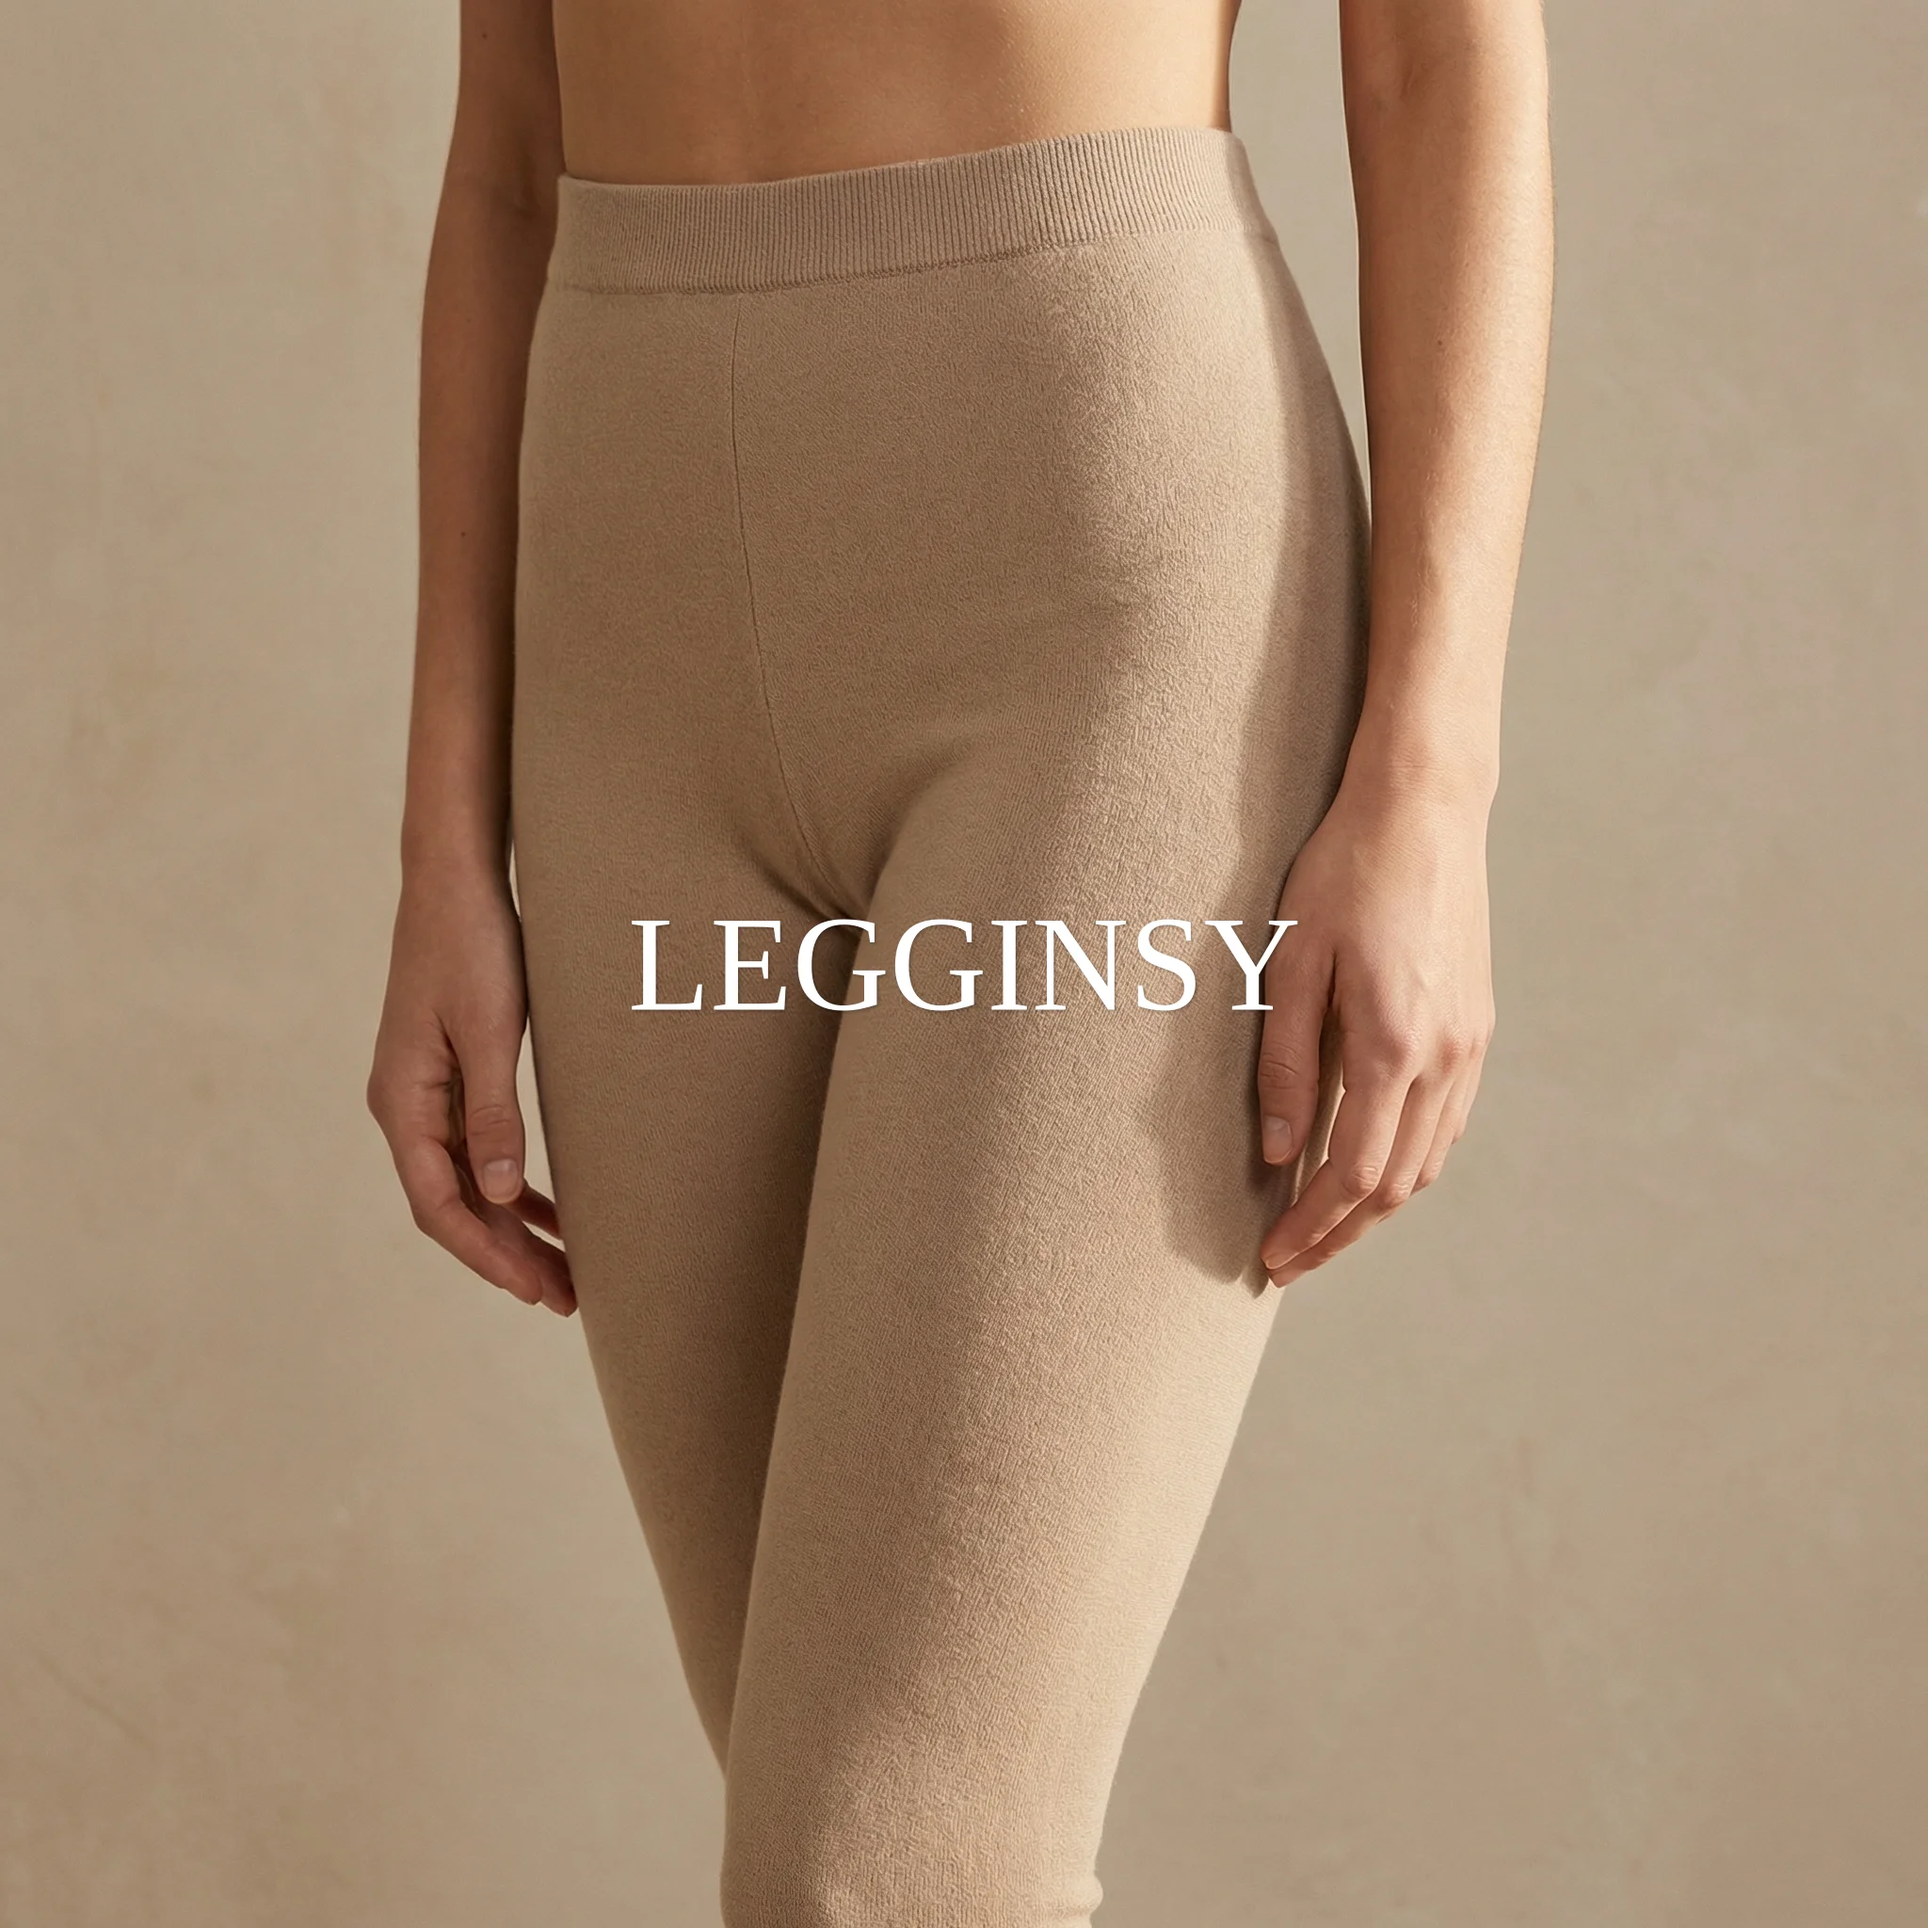
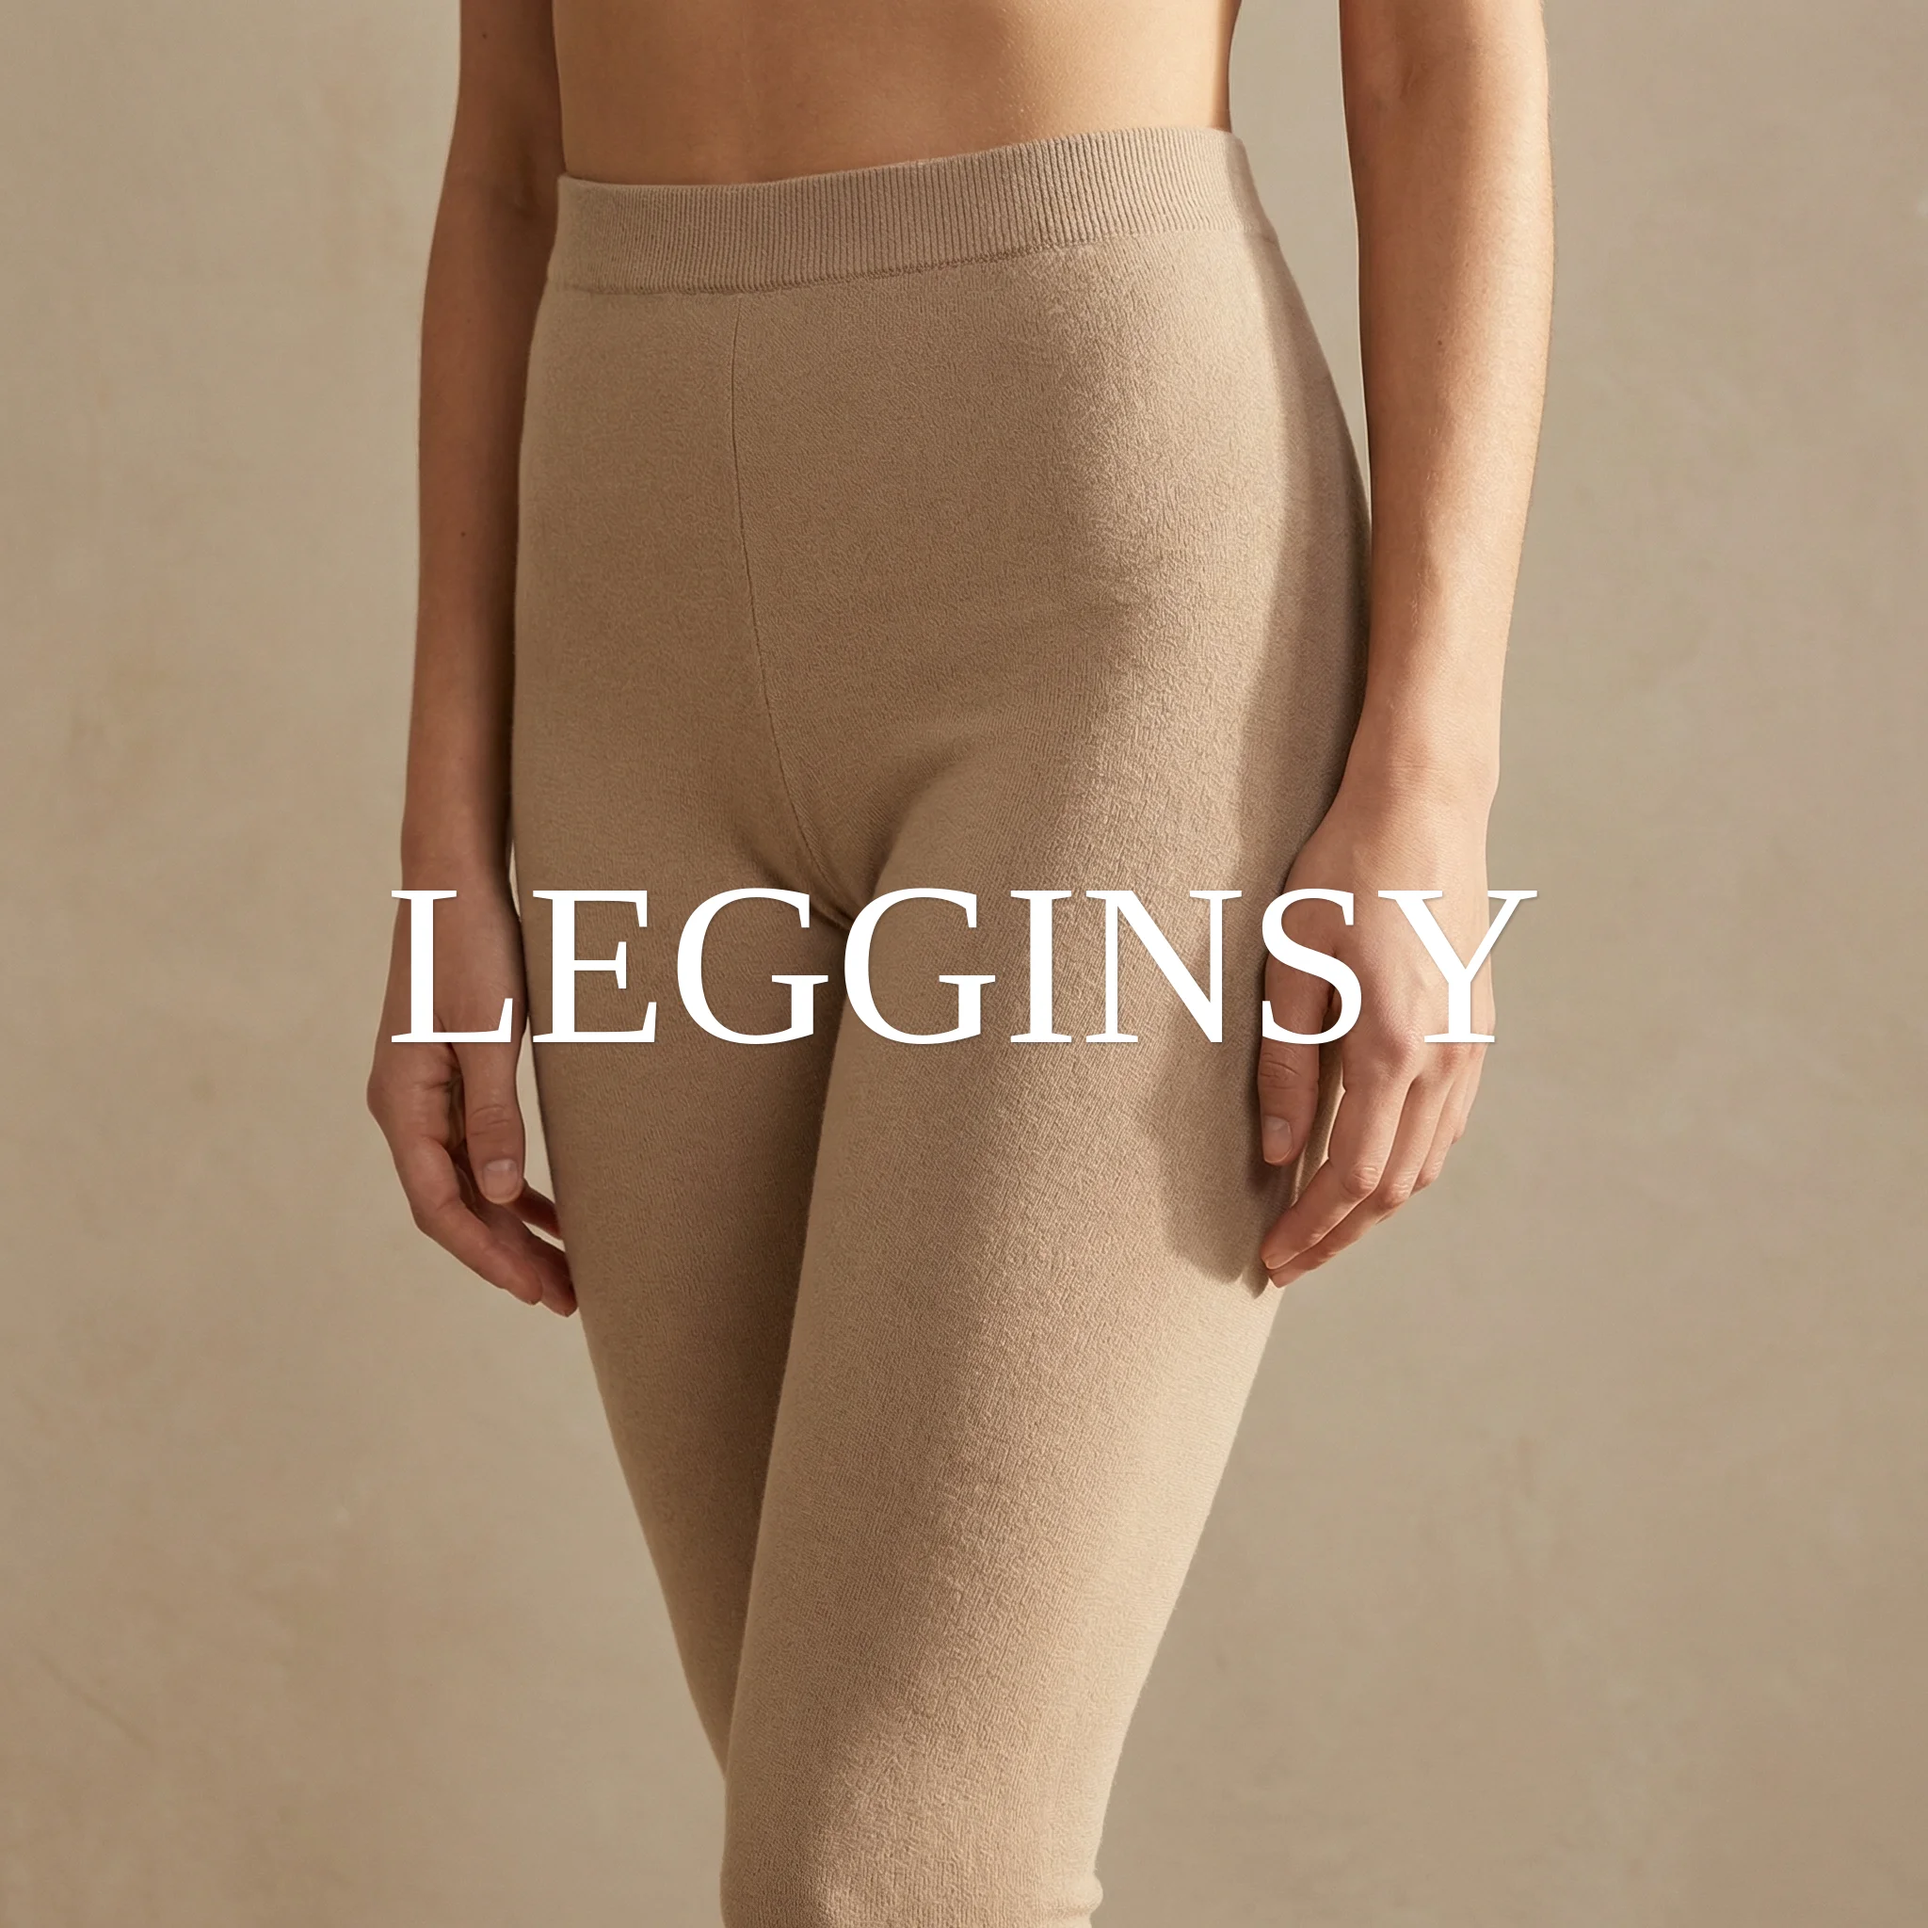
fix: increase category text size to match existing images

Changed region(s): [[0.1875, 0.4375, 0.7812, 0.5625]]

diff --git a/scripts/add-category-text.js b/scripts/add-category-text.js
@@ -49,8 +49,8 @@ async function addTextToImage(inputPath, outputPath, text) {
   // Draw original image
   ctx.drawImage(image, 0, 0);
 
-  // Calculate font size based on image width (approximately 8% of width)
-  const fontSize = Math.round(image.width * 0.07);
+  // Calculate font size based on image width (approximately 12% of width to match existing images)
+  const fontSize = Math.round(image.width * 0.12);
 
   // Set font - Playfair Display style (serif, slightly condensed letter spacing)
   ctx.font = `${fontSize}px "Playfair Display", "Times New Roman", serif`;
